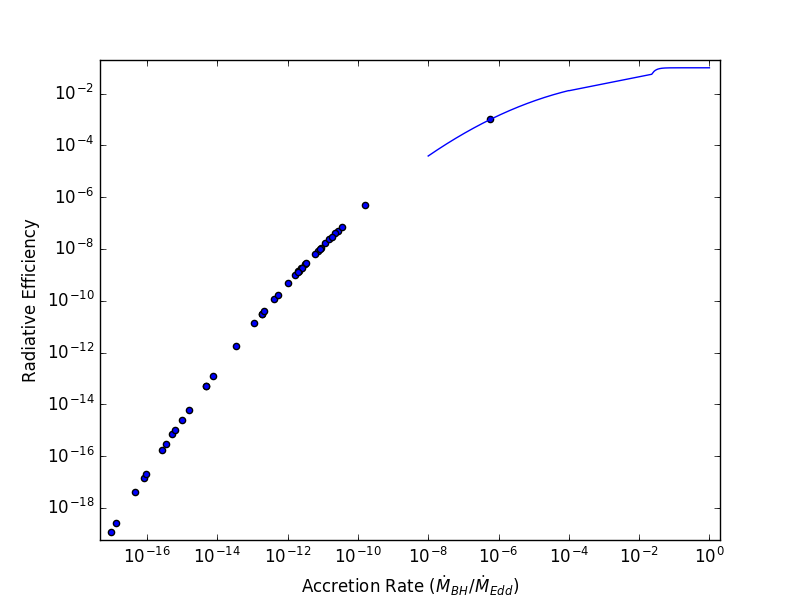
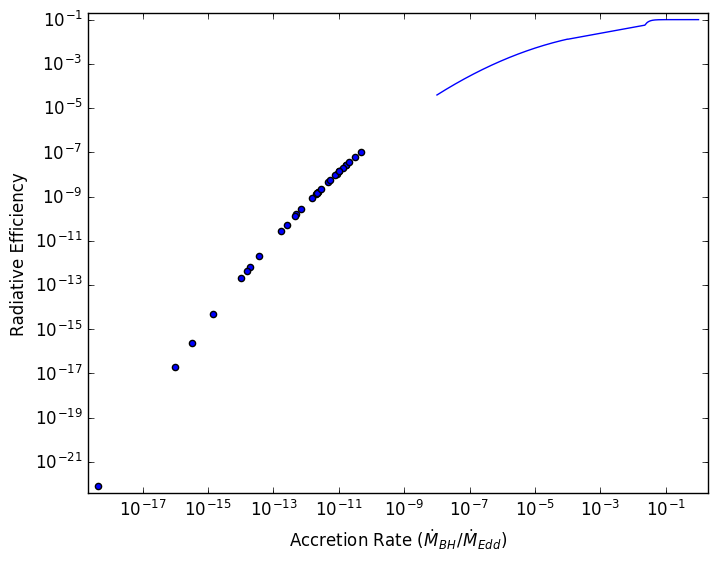
Added Kohei plots (at end of paper).

diff --git a/paper.tex b/paper.tex
@@ -63,7 +63,7 @@
 
 
 \begin{abstract}
-We perform N-body simulations on 13 galaxies extracted from a cosmological simulation of hierarchical structure formation with total mass in the range $10^{12} \msun < M < 10^{13} \msun$ from $4 \ge z \ge 0$.  We track the dynamical evolution of the orbiting black holes (BHs) around their host central BHs.  Of the 120 orbiting BHs, we find that 50 merge with their host central BHs, 11 are ejected from their respective host galaxies, 59 are still orbiting at the end of the simulations.  Across all galaxies, 48 BHs are kicked to a higher orbit after close interactions with the central BH, after which none of them merge with their hosts.  These orbiting BHs should be detectable by their anomalous (not LMXRB) spectra.  The x-ray luminosities of the orbiting massive BHs at z=0 are in the range $10^{23}-10^{37}$ $erg\ s^{-1}$, with median value $10^{29}$ $erg\ s^{-1}$.
+We perform N-body simulations on 13 galaxies extracted from a cosmological simulation of hierarchical structure formation with total mass in the range $10^{12} \msun < M < 10^{13} \msun$ from $4 \ge z \ge 0$.  We track the dynamical evolution of the orbiting black holes (BHs) around their host central BHs.  Of the 120 orbiting BHs, we find that 50 merge with their host central BHs, 11 are ejected from their respective host galaxies, and 59 are still orbiting at the end of the simulations.  Across all galaxies, 48 BHs are kicked to a higher orbit after close interactions with the central BHs, after which none of them merge with their hosts.  These orbiting BHs should be detectable by their anomalous (not LMXRB) spectra.  The x-ray luminosities of the orbiting massive BHs at z=0 are in the range $10^{23}-10^{37}$ $erg\ s^{-1}$, with median value $10^{29}$ $erg\ s^{-1}$.
 \end{abstract}
 
 
@@ -236,7 +236,7 @@ a_{new} = a\left(1+\frac{32a\,\mbox{d}W}{3\pi GM_{NSC}^2}\right)^{-1}.
 \end{equation}
 
 \subsubsection{Gravitational wave recoils}
-The code \textsc{AR-Chain} includes post-Newtonian terms up to order 2.5. The SMBHs can therefore merge via gravitational wave emission. We include gravitational wave recoils following the prescription outlined in Kulier(+15), which is based on the fitting formula by \citet{2012PhRvD..85h4015L}.  We assume that a merger will be inevitable when the separation between two SBHs becomes smaller than 1.0 Schwarzschild radius. At the moment of the merger, we assume that the spin vectors of the two SBHs are randomly aligned. [STILL NEED TO DESCRIBE KICK AFTER MERGER].
+The code \textsc{AR-Chain} includes post-Newtonian terms up to order 2.5. The SMBHs can therefore merge via gravitational wave emission. We include gravitational wave recoils following the prescription outlined in Kulier(+15), which is based on the fitting formula by \citet{2012PhRvD..85h4015L}.  We assume that a merger will be inevitable when the separation between two SMBHs becomes smaller than 1.0x the Schwarzschild radius. At the moment of the merger, we also assume that the spin vectors of the two SBHs are randomly aligned. [STILL NEED TO DESCRIBE KICK AFTER MERGER].
 
 Black holes can also eject each other via strong three-body interactions. We remove SBHs from the simulations once they move beyond $r_h$, assuming that it will take them more than a Hubble time to find their way back into the center of the host galaxy, or that they have achieved escape velocity.
 
@@ -377,11 +377,27 @@ The Eddington limit is defined as:
 \end{center}
 \end{figure}
 
+%\begin{figure}[ht]
+%\begin{center}
+%\includegraphics[width=0.45\%textwidth]{plots/"Final %Luminosities of Orbiting %BHs".png}
+%\caption{Luminosities of %Orbiting BHs at z=0}
+%\label{fig:loobhs}
+%\end{center}
+%\end{figure}
+
 \begin{figure}[ht]
 \begin{center}
-\includegraphics[width=0.45\textwidth]{plots/"Final Luminosities of Orbiting BHs".png}
-\caption{Luminosities of Orbiting BHs at z=0}
+\includegraphics[width=0.45\textwidth]{plots/"luminosities_final".png}
+\caption{Kohei Ratios of Orbiting BHs at z=0}
 \label{fig:loobhs}
+\end{center}
+\end{figure}
+
+\begin{figure}[ht]
+\begin{center}
+\includegraphics[width=0.45\textwidth]{plots/"Final Luminosities using Kohei factor".png}
+\caption{Luminosity Distribution of Orbiting BHs at z=0}
+\label{fig:ldobhs}
 \end{center}
 \end{figure}
 
